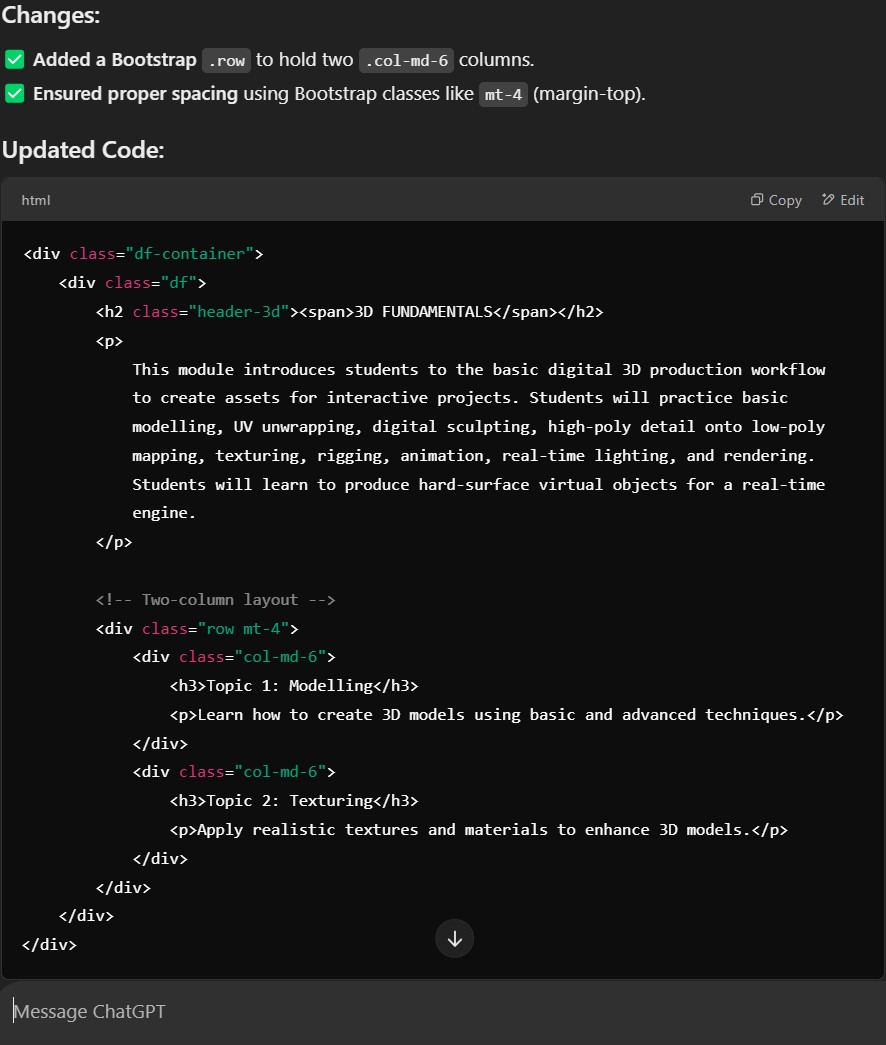
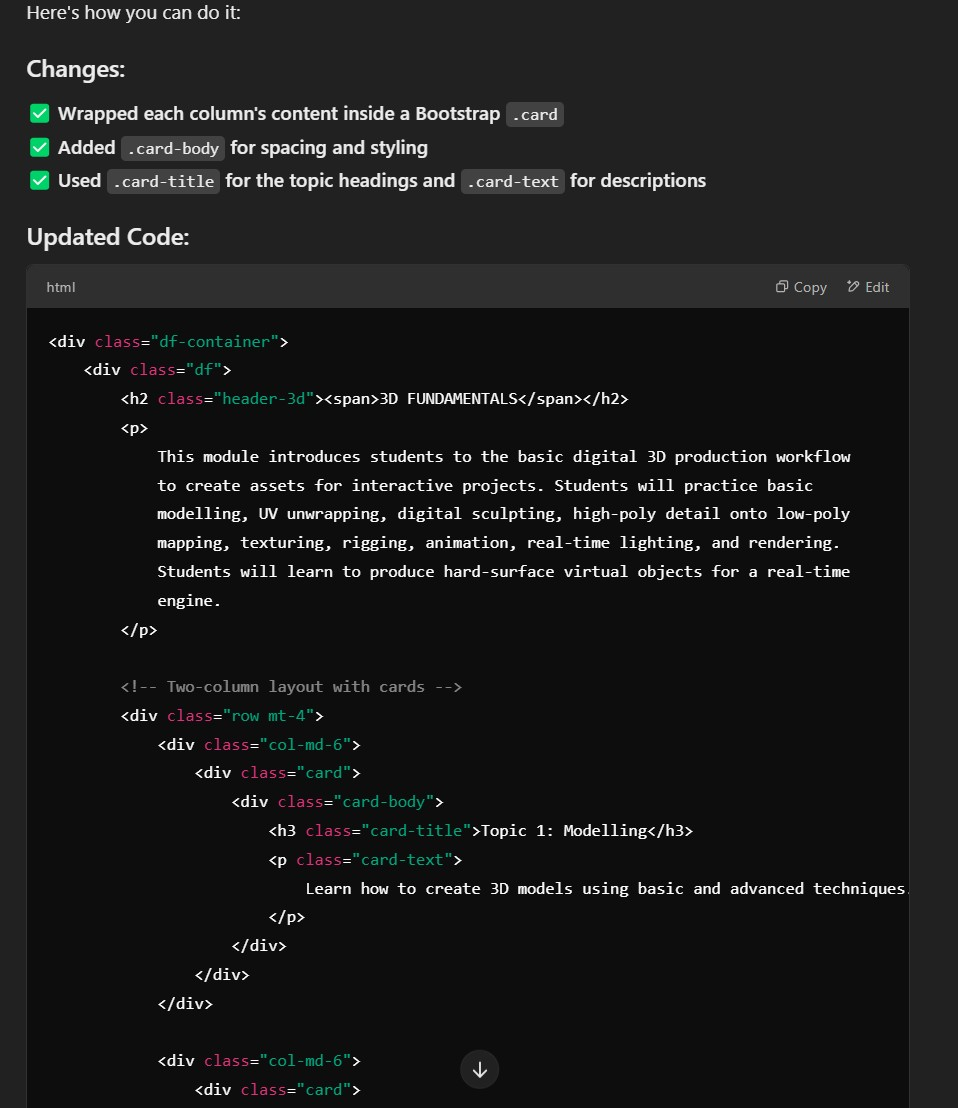
made some changes to the image folder

diff --git a/README.md b/README.md
@@ -82,8 +82,21 @@ High-fidelity prototype: https://www.figma.com/design/vCXfjYOyMaTAc93VTvoHb5/Edu
 ![ChatGPT AI Assistance 7](images/ai_assist11.png)
 ![ChatGPT AI Assistance 7](images/ai_assist12.png)
 
-8. Dropdown button with image and text: ChatGPT was used to help code the image into the drop down content of the button.
+8. Added a card into the two column layout: ChatGPT was used to enhance the 2 column layout for the 3df content page.
 ![ChatGPT AI Assistance 8](images/ai_assist13.jpg)
+![ChatGPT AI Assistance 8](images/ai_assist13pt2.jpg)
+
+9.  Added another 2 column layout with cards in each column into the continous assessments section of the assignment page with ChatGPT:
+![ChatGPT AI Assistance 8](images/ai_assist14.jpg)
+![ChatGPT AI Assistance 8](images/ai_assist14pt2.jpg)
+
+10.  ChatGPT was used to help modify the css code for the 3df content page to create black overlay effect for the cards.
+![ChatGPT AI Assistance 8](images/ai_assist15.jpg)
+![ChatGPT AI Assistance 8](images/ai_assist15pt2.jpg)
+
+11.  
+
+
 ## Testing
 
 1. Daily Tasks:
